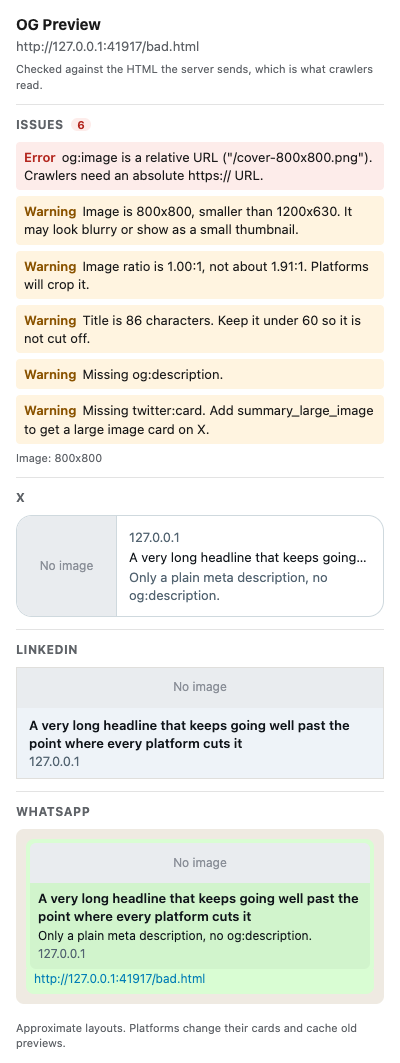
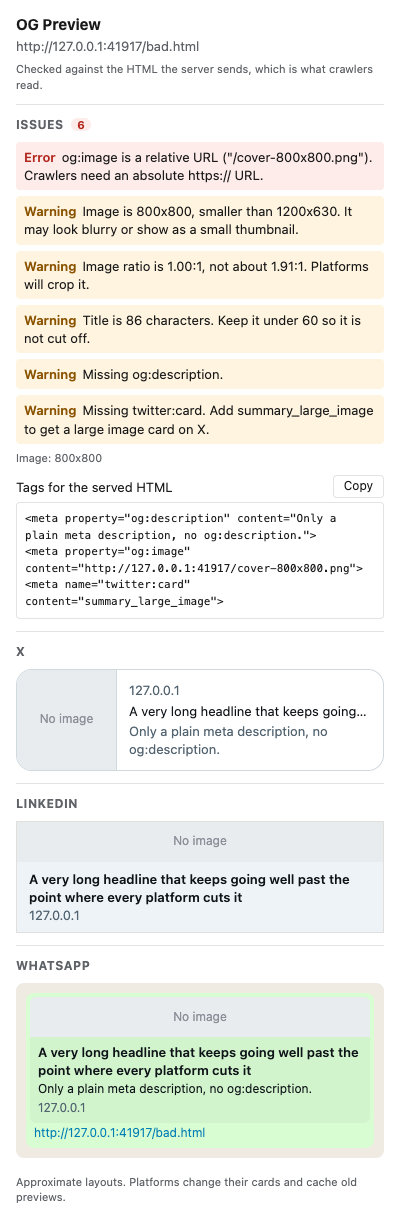
Suggest a copyable <meta> block for missing or JS-only tags
The popup builds the tags the served HTML lacks (or only gets from
JavaScript) from the live page values, resolves relative images,
escapes attribute values and leaves og:image empty with a comment when
there is no usable image. The screenshot script now fails on an
unexpected issue count and checks the clipboard matches the block.

diff --git a/test/meta.test.js b/test/meta.test.js
@@ -1,6 +1,6 @@
 import { test } from 'node:test';
 import assert from 'node:assert/strict';
-import { toMap, buildCards, findIssues, imageUrl, isAbsolute, isPrivateHost, jsSetTags } from '../src/meta.js';
+import { toMap, buildCards, findIssues, imageUrl, isAbsolute, isPrivateHost, jsSetTags, suggestTags } from '../src/meta.js';
 
 const good = {
   url: 'https://www.example.com/post/1',
@@ -152,4 +152,44 @@ test('an og:image on localhost is an error on a public page and is never loaded'
   const local = { ...page, url: 'http://localhost:3000/post/1' };
   assert.equal(imageUrl(local), 'http://localhost:3000/og.png');
   assert.deepEqual(findIssues(local, size), []);
+});
+
+test('suggestTags is empty for a complete page', () => {
+  assert.equal(suggestTags(good), '');
+});
+
+test('suggestTags fills missing tags from the page, resolves relative images, escapes values', () => {
+  const page = { url: 'https://a.com/post', title: 'Tom & "Jerry" <3', metas: [['description', 'Plain'], ['og:image', '/c.png'], ['twitter:card', 'big']] };
+  assert.equal(
+    suggestTags(page),
+    [
+      '<meta property="og:title" content="Tom &amp; &quot;Jerry&quot; &lt;3">',
+      '<meta property="og:description" content="Plain">',
+      '<meta property="og:image" content="https://a.com/c.png">',
+      '<meta name="twitter:card" content="summary_large_image">',
+    ].join('\n'),
+  );
+});
+
+test('suggestTags asks for an image when there is none or it is on a private address', () => {
+  const noImage = { ...good, metas: good.metas.filter(([k]) => k !== 'og:image') };
+  assert.equal(suggestTags(noImage), '<!-- Fill in og:image: an absolute https:// URL of a 1200x630 image. -->\n<meta property="og:image" content="">');
+  const local = { ...good, metas: [['og:image', 'http://localhost:3000/og.png'], ...good.metas] };
+  assert.match(suggestTags(local), /<meta property="og:image" content="">/);
+});
+
+test('suggestTags moves tags set by JavaScript into the served HTML with their live values', () => {
+  const spa = {
+    ...good,
+    metas: [['twitter:title', 'Live X title'], ...good.metas],
+    served: { title: 'App', metas: [['og:title', 'App'], ['og:description', 'A short description.'], ['twitter:card', 'summary_large_image']] },
+  };
+  assert.equal(
+    suggestTags(spa),
+    [
+      '<meta property="og:title" content="A good title">',
+      '<meta property="og:image" content="https://cdn.example.com/cover.png">',
+      '<meta name="twitter:title" content="Live X title">',
+    ].join('\n'),
+  );
 });

diff --git a/src/meta.js b/src/meta.js
@@ -204,3 +204,34 @@ export function findIssues(collected, imageSize) {
 
   return issues;
 }
+
+const escapeAttr = (v) => v.replace(/&/g, '&amp;').replace(/"/g, '&quot;').replace(/</g, '&lt;').replace(/>/g, '&gt;');
+
+// A <meta> block to paste into the served HTML for the tags that are missing, broken or only set by
+// JavaScript. Values come from the live page where it has them; '' when nothing is known.
+export function suggestTags(collected) {
+  const page = crawlerView(collected);
+  const served = toMap(page.metas);
+  const live = toMap(collected.metas);
+  const fromJs = jsSetTags(collected);
+  const needed = (key) => !served[key] || fromJs.includes(key);
+  const tags = {};
+
+  if (needed('og:title')) tags['og:title'] = live['og:title'] || page.title || collected.title || '';
+  if (needed('og:description')) tags['og:description'] = live['og:description'] || live.description || served.description || '';
+  const image = fromJs.includes('og:image') ? live['og:image'] : served['og:image'] || served['og:image:url'];
+  if (!image || isPrivateImage(resolve(image, page.url), page.url)) tags['og:image'] = '';
+  else if (!isAbsolute(image) || fromJs.includes('og:image')) tags['og:image'] = resolve(image, page.url);
+  const card = served['twitter:card'];
+  if (!card || !TWITTER_CARDS.includes(card) || fromJs.includes('twitter:card')) {
+    tags['twitter:card'] = TWITTER_CARDS.includes(live['twitter:card']) ? live['twitter:card'] : 'summary_large_image';
+  }
+  for (const key of fromJs) if (!(key in tags)) tags[key] = live[key];
+
+  const lines = Object.entries(tags).map(([key, value]) => {
+    const attr = key.startsWith('og:') ? 'property' : 'name';
+    return `<meta ${attr}="${key}" content="${escapeAttr(value)}">`;
+  });
+  if (tags['og:image'] === '') lines.unshift('<!-- Fill in og:image: an absolute https:// URL of a 1200x630 image. -->');
+  return lines.join('\n');
+}

diff --git a/src/App.jsx b/src/App.jsx
@@ -1,5 +1,5 @@
 import { useEffect, useState } from 'react';
-import { LIMITS, buildCards, collectMeta, findIssues, imageUrl } from './meta.js';
+import { LIMITS, buildCards, collectMeta, findIssues, imageUrl, suggestTags } from './meta.js';
 
 // ?tab=<id> targets a specific tab (used by the screenshot script); otherwise the active tab.
 async function readPage() {
@@ -23,6 +23,24 @@ function measure(src) {
     img.onerror = () => done(null);
     img.src = src;
   });
+}
+
+function Suggestion({ text }) {
+  const [label, setLabel] = useState('Copy');
+  const copy = () =>
+    navigator.clipboard.writeText(text).then(
+      () => setLabel('Copied'),
+      () => setLabel('Copy failed, select the text'),
+    );
+  return (
+    <div className="suggest">
+      <div className="suggest-head">
+        <span>Tags for the served HTML</span>
+        <button type="button" onClick={copy}>{label}</button>
+      </div>
+      <pre>{text}</pre>
+    </div>
+  );
 }
 
 function Thumb({ src, className }) {
@@ -104,6 +122,7 @@ export default function App() {
   const { page, size } = state;
   const cards = buildCards(page);
   const issues = findIssues(page, size);
+  const suggestion = suggestTags(page);
 
   return (
     <main>
@@ -134,6 +153,7 @@ export default function App() {
           </ul>
         )}
         {size && <p className="muted small">Image: {size.width}x{size.height}</p>}
+        {suggestion && <Suggestion text={suggestion} />}
       </section>
 
       <section>

diff --git a/src/styles.css b/src/styles.css
@@ -63,6 +63,18 @@ p { margin: 0; }
 .error .tag { color: var(--error); }
 .warn .tag { color: var(--warn); }
 
+.suggest { margin-top: 10px; }
+.suggest-head { display: flex; justify-content: space-between; align-items: center; margin-bottom: 4px; }
+.suggest button {
+  font: inherit; font-size: 12px; padding: 2px 10px; border: 1px solid var(--line); border-radius: 4px;
+  background: var(--bg); color: var(--text); cursor: pointer;
+}
+.suggest button:hover { border-color: var(--muted); }
+.suggest pre {
+  margin: 0; padding: 8px; border: 1px solid var(--line); border-radius: 4px;
+  font: 11px/1.5 ui-monospace, Menlo, Consolas, monospace; white-space: pre-wrap; overflow-wrap: anywhere;
+}
+
 /* Card previews always use the platforms' light look. */
 .img { display: block; width: 100%; object-fit: cover; background: #e9ecef; }
 .img.wide { aspect-ratio: 1.91 / 1; }

diff --git a/scripts/screenshot.py b/scripts/screenshot.py
@@ -3,6 +3,7 @@
 Usage: npm run build && python scripts/screenshot.py   (needs `pip install playwright`)
 The popup is opened as a tab with ?tab=<id>. The test copy of the manifest gets a host
 permission for 127.0.0.1, because activeTab is only granted by a real click on the toolbar icon.
+Exits non-zero when a fixture shows an unexpected number of issues or the copy button fails.
 """
 import functools
 import hashlib
@@ -10,6 +11,7 @@ import http.server
 import json
 import os
 import shutil
+import sys
 import tempfile
 import threading
 from pathlib import Path
@@ -68,8 +70,10 @@ def main():
             headless=True,
             args=[f"--disable-extensions-except={ext}", f"--load-extension={ext}"],
         )
+        ctx.grant_permissions(["clipboard-read", "clipboard-write"])
         make_covers(ctx)
-        for name, scheme in [("good", "light"), ("bad", "light"), ("bad", "dark"), ("spa", "light")]:
+        failures = []
+        for name, scheme, expected in [("good", "light", 0), ("bad", "light", 6), ("bad", "dark", 6), ("spa", "light", 2)]:
             target = ctx.new_page()
             target.goto(f"http://127.0.0.1:{PORT}/{name}.html")
             popup = ctx.new_page()
@@ -84,12 +88,23 @@ def main():
             popup.wait_for_load_state("networkidle")
             out = OUT / f"popup-{name}{'-dark' if scheme == 'dark' else ''}.png"
             popup.screenshot(path=str(out), full_page=True)
-            print(out, "issues:", popup.locator(".issues li").count())
+            count = popup.locator(".issues li").count()
+            print(out, "issues:", count)
+            if count != expected:
+                failures.append(f"{name}: {count} issues, expected {expected}")
+            if expected:
+                # Every fixture with issues gets a suggested <meta> block; the button copies exactly that text.
+                popup.click(".suggest button")
+                popup.wait_for_selector(".suggest button:text('Copied')", timeout=2000)
+                if popup.evaluate("navigator.clipboard.readText()") != popup.inner_text(".suggest pre"):
+                    failures.append(f"{name}: clipboard does not match the suggested tags")
             target.close()
             popup.close()
         ctx.close()
     server.shutdown()
     shutil.rmtree(tmp, ignore_errors=True)
+    if failures:
+        sys.exit("FAIL\n" + "\n".join(failures))
 
 
 if __name__ == "__main__":

diff --git a/README.md b/README.md
@@ -26,6 +26,8 @@ Link previews are usually checked after the post is live, when a wrong image or 
 
 The checks run on the HTML the server sends, because social crawlers usually do not run JavaScript. The popup re-requests the page from inside the tab (same origin, like a reload) and compares it with the live DOM, so tags added by a client-side router show up as a warning instead of passing silently. If that request fails (HTTP error, not HTML, or no answer within 8 seconds), the popup falls back to the live page and says so.
 
+When something is missing, broken or only set by JavaScript, the popup also shows a ready `<meta>` block for the served HTML with a Copy button. It takes the values from the live page where it has them (resolving a relative image URL against the page) and leaves `og:image` empty with a comment when there is no usable image. It does not shorten a title or description that is too long.
+
 The previews follow each platform's fallbacks: X reads `twitter:*` first and then `og:*`; LinkedIn and WhatsApp read `og:*`, then `<title>` and `meta name="description"`. A relative image URL is shown as "No image", because crawlers cannot resolve it either.
 
 ## Quick start
